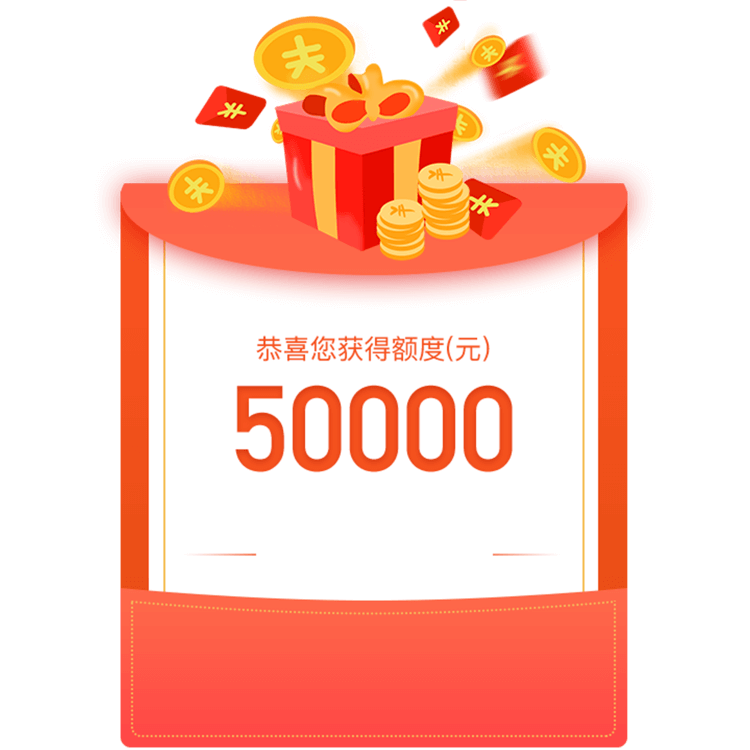
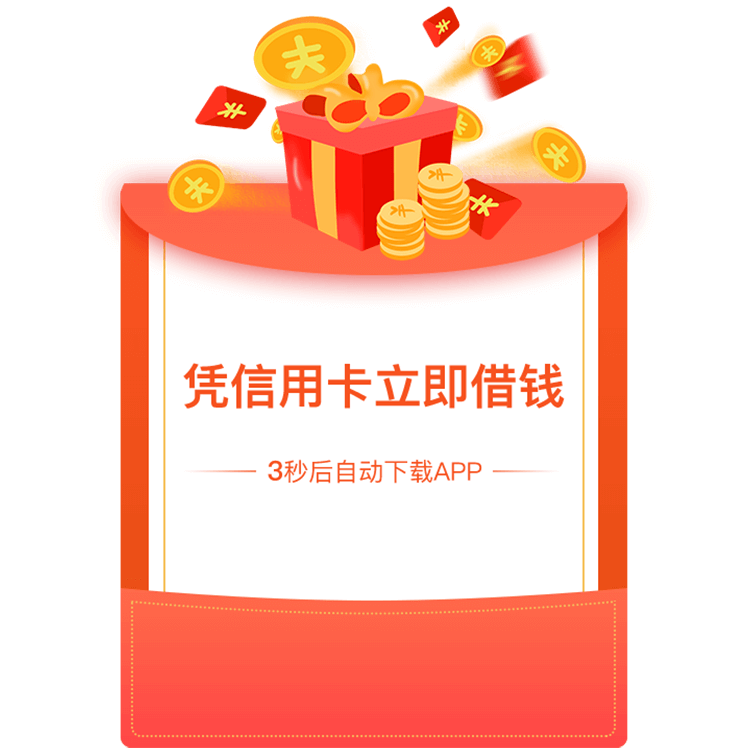
==

Changed region(s): [[0.2453, 0.4293, 0.7667, 0.644], [0.276, 0.736, 0.3373, 0.7667], [0.6747, 0.736, 0.7053, 0.7667]]

diff --git a/src/pages/login/login_common_page/index.js b/src/pages/login/login_common_page/index.js
@@ -1,3 +1,7 @@
+/*
+ * @Author: shawn
+ * @LastEditTime: 2019-09-20 10:28:52
+ */
 import qs from 'qs';
 import { address } from 'utils/Address';
 import React, { PureComponent } from 'react';
@@ -12,7 +16,6 @@ import { buriedPointEvent, pageView } from 'utils/analytins';
 import { daicao } from 'utils/analytinsType';
 import styles from './index.scss';
 import defaultBannerImg from './img/login_bg.png';
-import descImg from './img/desc_img.png';
 import loginModalBg from './img/login_modal.png';
 import loginModalBtn from './img/login_modal_btn.png';
 import closeIco from './img/close_ico.png';
@@ -502,11 +505,11 @@ export default class login_common_page extends PureComponent {
 				<img className={styles.banner} src={loginBgImg} alt="落地页banner" />
 				<div className={styles.content}>
 					<div className={styles.loginContentBox}>
-						<p className={styles.title}>最高可借额度(元)</p>
+						{/* <p className={styles.title}>最高可借额度(元)</p>
 						<p className={styles.moneyText}>50000</p>
 						<p className={styles.proDesc}>
 							<img src={descImg} alt="描述" />
-						</p>
+						</p> */}
 						<InputItem
 							disabled={disabledInput}
 							id="inputPhone"
@@ -593,7 +596,7 @@ export default class login_common_page extends PureComponent {
 							</div>
 						</div>
 						<div className={styles.sureBtn} onClick={this.goLogin}>
-							<span>查看额度</span>
+							<span>立即申请</span>
 						</div>
 						<i className={[styles.commonLine, styles.leftTopLine].join(' ')} />
 						<i className={[styles.commonLine, styles.rightTopLine].join(' ')} />
@@ -620,14 +623,14 @@ export default class login_common_page extends PureComponent {
 								this.go('register_agreement_page');
 							}}
 						>
-							《随行付金融用户注册协议》
+							《用户注册协议》
 						</span>
 						<span
 							onClick={() => {
 								this.go('privacy_agreement_page');
 							}}
 						>
-							《随行付用户隐私权政策》
+							《用户隐私权政策》
 						</span>
 					</div>
 				</div>
@@ -659,9 +662,6 @@ export default class login_common_page extends PureComponent {
 								}}
 								alt="按钮"
 							/>
-							<p className={styles.tipsCont}>
-								<span>{times}</span>秒后自动下载APP
-							</p>
 							{/* 关闭 */}
 							<img className={styles.closeIcoStyle} src={closeIco} onClick={this.closeModal} alt="关闭" />
 						</div>

diff --git a/src/pages/login/outer_test_login_page/index.js b/src/pages/login/outer_test_login_page/index.js
@@ -1,63 +1,17 @@
+/*
+ * @Author: shawn
+ * @LastEditTime: 2019-09-20 10:27:24
+ */
 import React, { PureComponent } from 'react';
 import LoginCommonPage from '../login_common_page';
-import bannerImg from './img/login_bg.png';
-import bannerImg2 from './img/login_bg2.png';
-import bannerImg3 from './img/login_bg3.png';
-import qs from 'qs';
-
+import bannerImg4 from './img/login_bg4.png';
+/*eslint-disable */
 export default class outer_test_login_page extends PureComponent {
 	constructor(props) {
 		super(props);
 		this.state = {};
 	}
 	render() {
-		const query = qs.parse(this.props.history.location.search, { ignoreQueryPrefix: true });
-		let showData = {};
-		switch (query && query.landingType) {
-			case '01':
-				showData = {
-					bannerImg: bannerImg,
-					isChecked: true
-				};
-				break;
-			case '02':
-				showData = {
-					bannerImg: bannerImg,
-					isChecked: false
-				};
-				break;
-			case '03':
-				showData = {
-					bannerImg: bannerImg3,
-					isChecked: true
-				};
-				break;
-			case '04':
-				showData = {
-					bannerImg: bannerImg3,
-					isChecked: false
-				};
-				break;
-			case '05':
-				showData = {
-					bannerImg: bannerImg2,
-					isChecked: true
-				};
-				break;
-
-			default:
-				showData = {
-					bannerImg: bannerImg,
-					isChecked: true
-				};
-				break;
-		}
-		return (
-			<LoginCommonPage
-				{...this.props}
-				bannerImg={showData && showData.bannerImg}
-				isChecked={showData && showData.isChecked}
-			/>
-		);
+		return <LoginCommonPage {...this.props} bannerImg={bannerImg4} isChecked={true} />;
 	}
 }

diff --git a/src/pages/login/login_common_page/index.scss b/src/pages/login/login_common_page/index.scss
@@ -14,7 +14,6 @@
 		top: -86px;
 		text-align: center;
 		width: 666px;
-		height: 679px;
 		background: #fff;
 		box-shadow: 0 8px 35px 0 rgba(0, 0, 0, 0.13);
 		border-radius: 10px;
@@ -25,7 +24,7 @@
 		.loginContentBox {
 			position: relative;
 			border: 1px solid #bd9755;
-			padding: 29px;
+			padding: 62px 30px 80px;
 		}
 		.title {
 			position: relative;
@@ -88,7 +87,7 @@
 		.loginInput {
 			height: 91px;
 			line-height: 91px;
-			margin-bottom: 20px;
+			margin-bottom: 50px;
 			box-sizing: border-box;
 			border: 2px solid #c9cdd5;
 			border-radius: 8px;
@@ -151,14 +150,14 @@
 		.sureBtn {
 			display: block;
 			width: 444px;
-			height: 87px;
+      height: 87px;
 			line-height: 87px;
 			background: #fec933;
 			border-radius: 44px;
 			font-size: 30px;
 			// font-weight: bold;
 			color: #fff;
-			margin: 43px auto 10px;
+			margin: 73px auto 10px;
 			span {
 				display: inline-block;
 				width: 100%;
@@ -187,7 +186,7 @@
 		top: -57px;
 		color: #8e8d7b;
 		font-size: 24px;
-		margin: 0 58px;
+		margin: 80px 58px 0;
 		text-align: left;
 		span {
 			color: #414a53;
